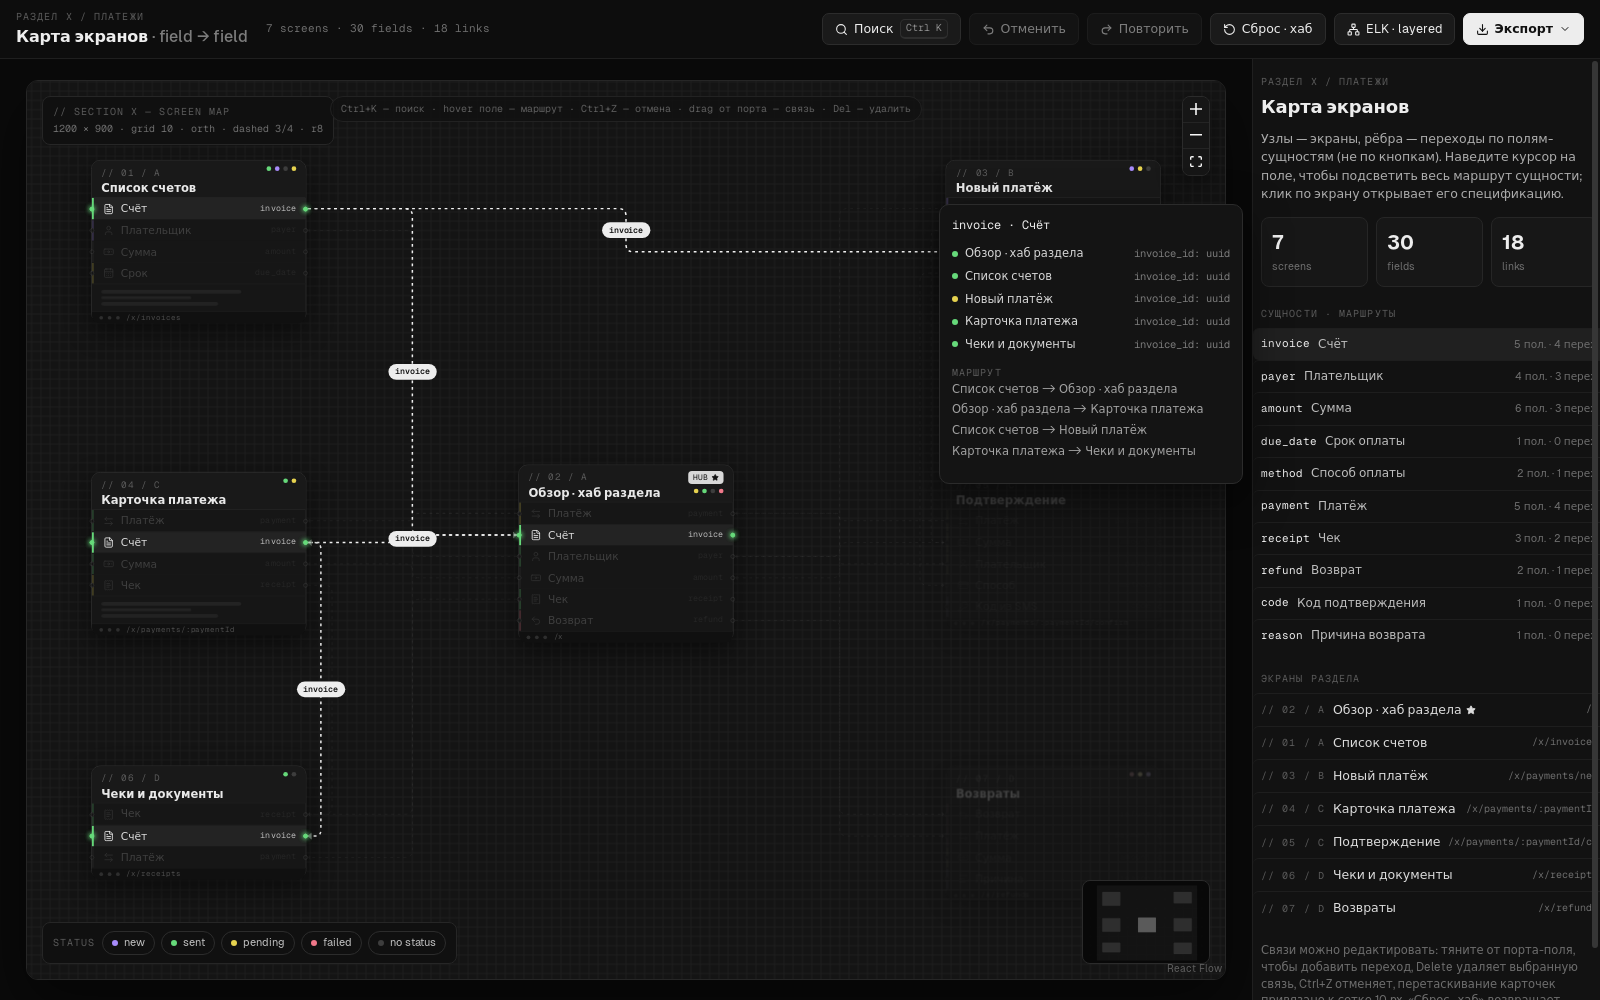
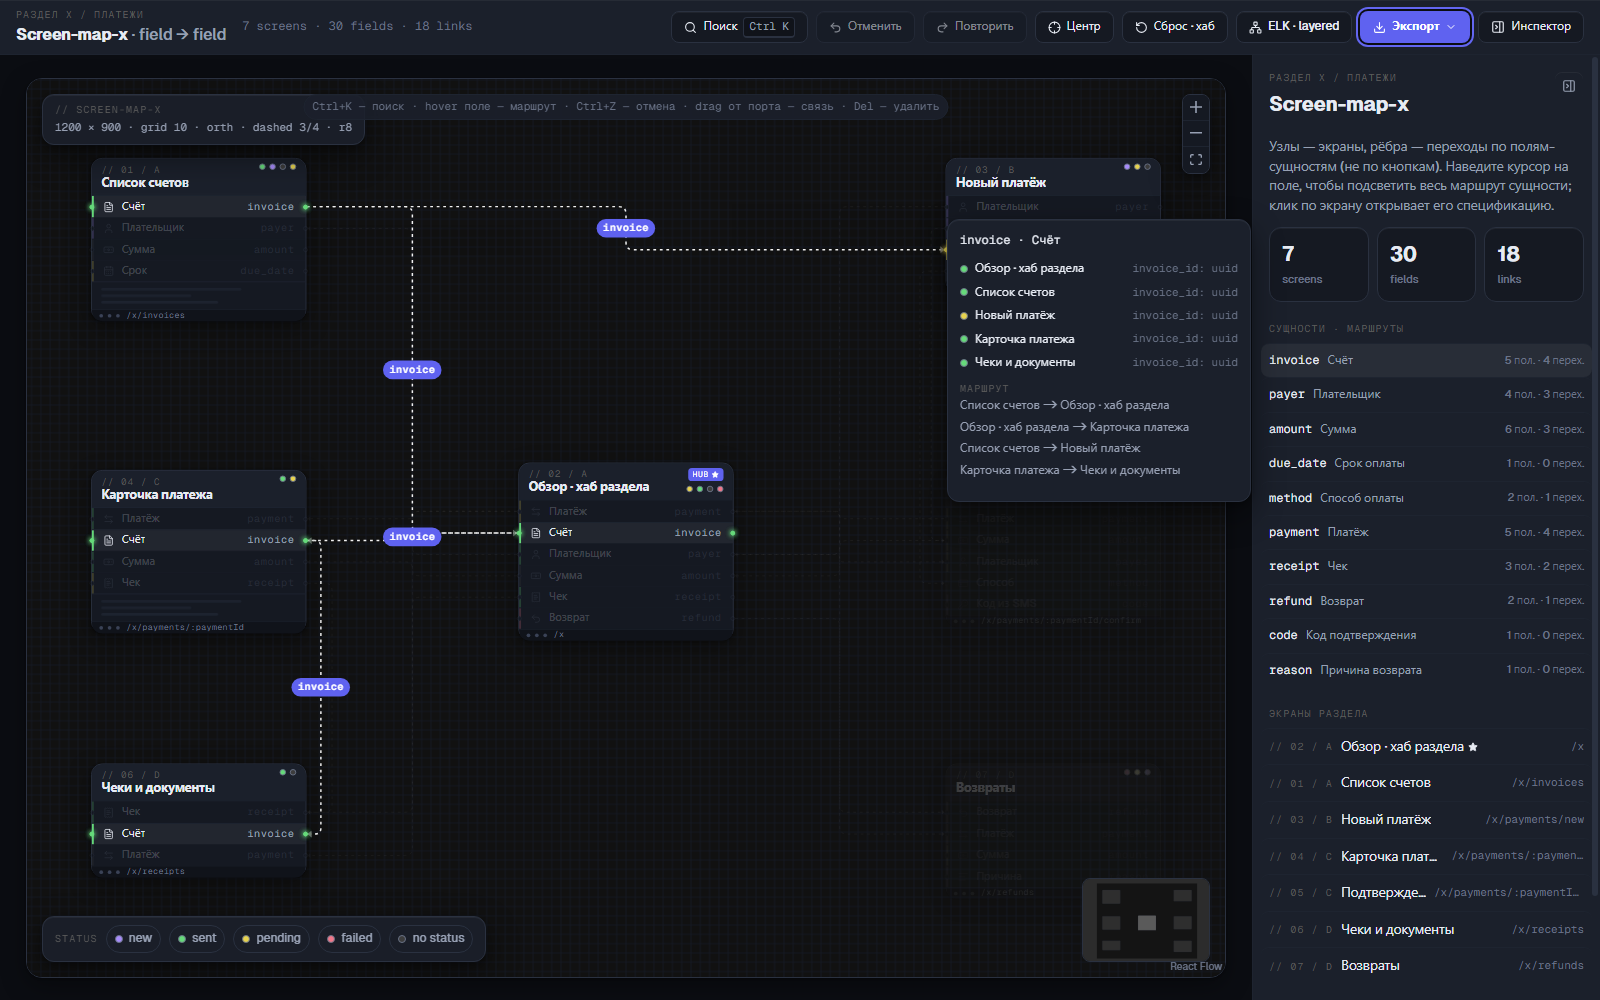
chore(docs): refresh the interface frames and make them reproducible
The frames showed the previous design, and the four reference shots of the old
interface were referenced by nobody. The current set is captured by
npm run screenshots, which drives the same states as the manual checklist in
docs/testing.md.

diff --git a/scripts/capture-screenshots.ts b/scripts/capture-screenshots.ts
@@ -1,0 +1,89 @@
+import { chromium } from "@playwright/test";
+import { mkdirSync } from "node:fs";
+import { fileURLToPath } from "node:url";
+
+/**
+ * Where the frames are written. The folder mirrors the reference frames one
+ * level up, so the ui/ set stays the current state of the interface.
+ */
+const OUT_DIR = fileURLToPath(new URL("../docs/assets/screenshots/ui/", import.meta.url));
+
+/** Dev server that serves the current state of the interface. */
+const BASE_URL = process.env.SCREENSHOTS_URL ?? "http://127.0.0.1:5173";
+
+/** Frame size used by the manual visual check in docs/testing.md. */
+const VIEWPORT = { width: 1600, height: 1000 };
+
+type Page = import("@playwright/test").Page;
+
+const openMap = async (page: Page): Promise<void> => {
+  await page.goto(BASE_URL);
+  await page.locator(".react-flow__node").first().waitFor();
+  await page.waitForTimeout(400);
+};
+
+const shoot = async (page: Page, name: string): Promise<void> => {
+  await page.screenshot({ path: `${OUT_DIR}${name}.png` });
+  process.stdout.write(`captured ${name}.png\n`);
+};
+
+const main = async (): Promise<void> => {
+  mkdirSync(OUT_DIR, { recursive: true });
+  const browser = await chromium.launch();
+  const context = await browser.newContext({
+    viewport: VIEWPORT,
+    permissions: ["clipboard-read", "clipboard-write"],
+  });
+  const page = await context.newPage();
+
+  await openMap(page);
+  await shoot(page, "01-main");
+
+  const invoiceRow = page.locator('.react-flow__node[data-id="hub"] .fld', { hasText: "Счёт" }).first();
+  await invoiceRow.hover();
+  await page.locator(".tip").waitFor();
+  await shoot(page, "02-tooltip");
+
+  const chip = page.locator(".edge-chip").first();
+  const box = await chip.boundingBox();
+  if (!box) throw new Error("The highlighted edge chip has no bounding box");
+  // The edge interaction path covers the chip, so the click goes through raw
+  // mouse coordinates instead of the locator.
+  await page.mouse.click(box.x + box.width / 2, box.y + box.height / 2, { button: "right" });
+  await page.locator(".ctx-popup").waitFor();
+  await shoot(page, "03-context-menu");
+  await page.keyboard.press("Escape");
+
+  await page.getByRole("button", { name: /Экспорт/ }).click();
+  await page.locator(".menu-popup").waitFor();
+  await shoot(page, "04-export-menu");
+
+  await page.getByRole("menuitem", { name: "Посмотреть JSON…" }).click();
+  await page.locator(".dlg-popup").waitFor();
+  await shoot(page, "05-json-dialog");
+  await page.keyboard.press("Escape");
+
+  await page.keyboard.press("Control+K");
+  await page.locator(".pal-popup").waitFor();
+  await shoot(page, "06-palette");
+  await page.keyboard.press("Escape");
+
+  await page.locator(".ent-row").first().hover();
+  await page.locator(".preview-card").waitFor();
+  await shoot(page, "07-preview");
+  await page.mouse.move(0, 0);
+
+  await page.getByRole("button", { name: /Экспорт/ }).click();
+  await page.getByRole("menuitem", { name: "Копировать JSON" }).click();
+  await page.locator(".toast").waitFor();
+  await page.locator(".leg-chip", { hasText: "failed" }).click();
+  await shoot(page, "08-toast-filter");
+
+  await page.locator(".inspector-collapse").click();
+  await page.waitForTimeout(300);
+  await shoot(page, "09-inspector-hidden");
+
+  await browser.close();
+};
+
+await main();

diff --git a/README.md b/README.md
@@ -189,7 +189,7 @@ src/
 tests/e2e/                     Playwright-сценарии
 scripts/                       проверки, changelog и экспорт схемы
 tools/eslint/                  кастомные правила, процессор и парсер ESLint
-docs/assets/screenshots/       референсные и UI-кадры для ручной сверки
+docs/assets/screenshots/ui/   кадры текущего интерфейса для ручной сверки
 artifacts/                     образец экспортной JSON-схемы
 ```
 
@@ -230,8 +230,8 @@ artifacts/                     образец экспортной JSON-схем
 - E2E: 7 сценариев в `tests/e2e/screen-map.spec.ts`: рендер, hover-маршрут и tooltip,
   палитра, экспорт в буфер, фильтр статусов, контекстное удаление связи и undo,
   скрытие/восстановление правого инспектора с проверкой центровки холста.
-- Visual: кадры в `docs/assets/screenshots/` и `docs/assets/screenshots/ui/` используются для ручной сверки,
-  а не как pixel-snapshot assertions.
+- Visual: кадры в `docs/assets/screenshots/ui/` используются для ручной сверки,
+  а не как pixel-snapshot assertions. Их переснимает `npm run screenshots`.
 
 Подробности: [docs/testing.md](docs/testing.md).
 

diff --git a/docs/kickoff.md b/docs/kickoff.md
@@ -94,4 +94,5 @@ npm run build
 ```
 
 Если изменился публичный набор данных, перегенерируйте образец экспорта и
-обновите скриншоты в `docs/assets/screenshots/` в том же логическом изменении.
+обновите кадры в `docs/assets/screenshots/ui/` через `npm run screenshots` в том же
+логическом изменении.
